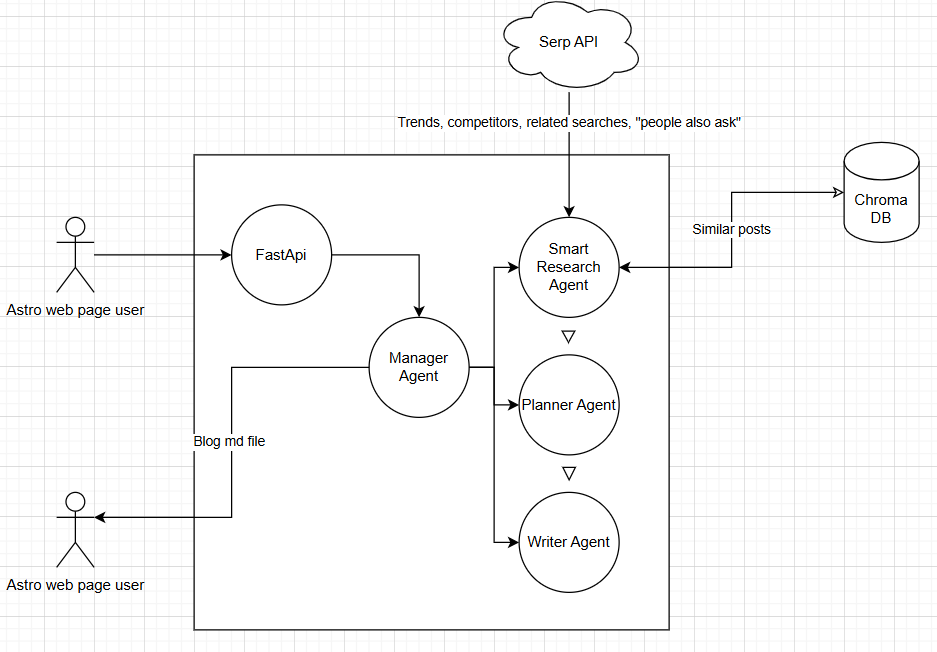
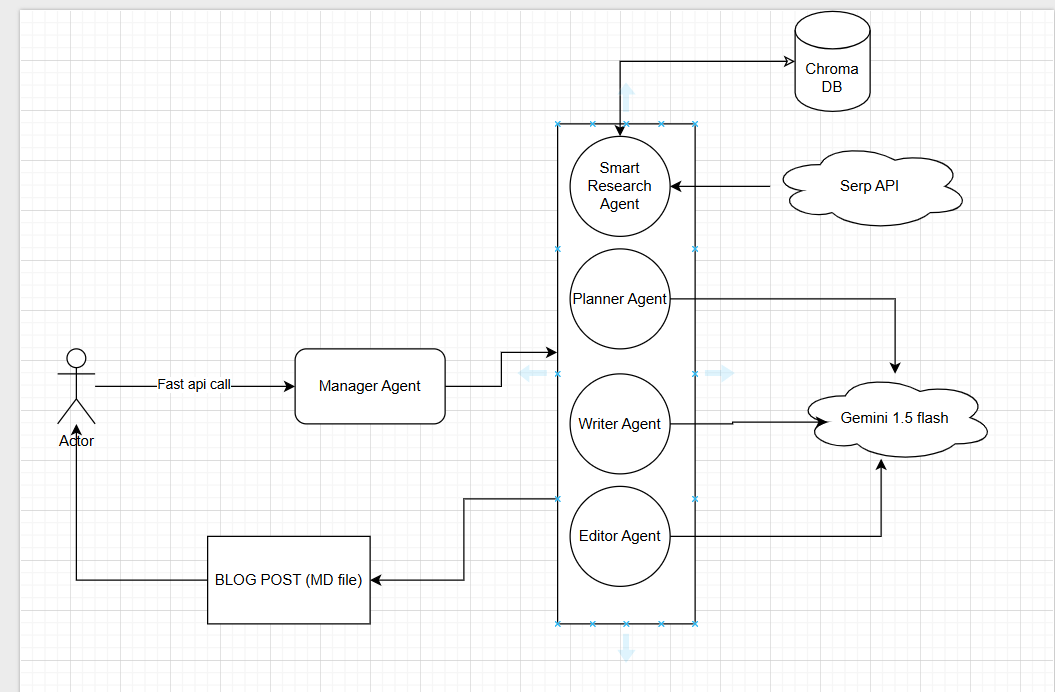
Documentation update

diff --git a/README.md b/README.md
@@ -1,0 +1,24 @@
+# SEO Manager
+
+## Architectural Choices and Rationale
+Multi-agent system with specialized roles: Manager orchestrates Research → Planning → Writing → Editing workflow. Semantic caching with ChromaDB reduces API costs by 80%. FastAPI backend + Astro frontend for performance.
+
+## Framework Selection
+- **Backend**: Python + FastAPI + LangChain for LLM orchestration, Google Gemini for cost-effectiveness
+- **Frontend**: Astro.js for static generation and SEO optimization
+- **Caching**: ChromaDB for vector similarity search
+- **Research**: SerpAPI for competitive analysis
+
+## Agent Collaboration
+ManagerAgent coordinates sequential pipeline:
+1. SmartResearchAgent checks cache, adapts existing data or fetches fresh competitive analysis
+2. PlannerAgent creates outline using competitor insights and trending topics
+3. WriterAgent generates detailed content following structured outline
+4. EditorAgent polishes and optimizes for SEO
+5. Auto-deployment to Astro blog with proper frontmatter
+
+## Competitive Advantages
+- **Cost Efficiency**: Reduction in API costs through semantic caching
+- **Quality**: Competitive intelligence + multi-stage refinement ensures superior content
+- **Speed**: Smart caching + async processing for fast generation
+- **Automation**: End-to-end pipeline from research to published blog post
